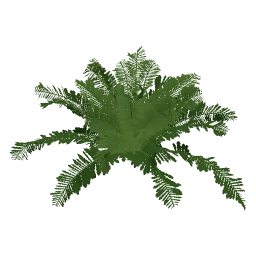
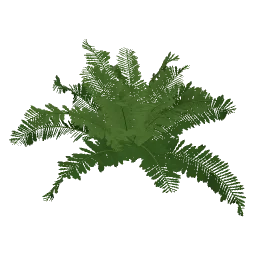
feat(templates): the fern's fronds grow from a spiral
The fronds no longer branch off a 5.7 cm crown stem that only anchored
them. `spiral` gives their points at the golden angle over the same
height and `branch_from_points` grows them, with the thickness the stub
gave them in meters. Gravity and the shade of the pinnae read the age of
a frond as its place among the fronds instead of its place on the crown.
The stub's tube, about 1 900 faces, is gone.

Refs #490

Changed region(s): [[0.0312, 0.1562, 0.9688, 0.8438], [0.4688, 0.4375, 0.5312, 0.5]]

diff --git a/packages/runtime/templates/index.ts b/packages/runtime/templates/index.ts
@@ -36,7 +36,7 @@ type About = { species?: string; notes: string };
 const ABOUT: Record<string, About> = {
   fern: {
     species: 'Nephrolepis exaltata (Boston fern)',
-    notes: '22 fronds from a short crown at the golden angle, arched by gravity, each with 110 '
+    notes: '22 fronds from a spiral at the golden angle, arched by gravity, each with 110 '
       + 'pinnae in two ranks.'
   },
   agave: {

diff --git a/docs/PLANT_TEMPLATES.md b/docs/PLANT_TEMPLATES.md
@@ -171,9 +171,9 @@ Family Nephrolepidaceae.
 
 **Structure:** Many fronds rise from the crown in a fountain. The inner fronds are erect and arch over, the outer ones hang. A frond is up to 1.5 m long (40–90 cm in pot forms) and _once-pinnate_. It has a short scaly stipe (about a fifth of the frond) and then 40–70 pinnae on each side, alternating, in one flat plane. Each pinna is linear-oblong, about 2–7 cm × 0.6–1.8 cm, with a crenate (scalloped) margin and a small ear (auricle) at the upper base. The pinnae stay almost the same length along the frond and only shorten near the tip, so the frond is a long strap.
 
-**Template:** 22 fronds grow from a short crown at the golden angle, so they spread evenly around the plant. An `alpha -> curve` tilts them by age: the outer, older fronds low on the crown spread out (0.7 rad above horizontal), the young ones in the middle stand upright (1.4 rad), ±0.14 rad at random. Gravity arches them by their place on the crown, a `path_info` with parent position into a `curve`: the outer fronds hang until their tips come down to the ground (strength 0.9–1.25, one value per seed), the inner ones only arch over (a third of it), with elasticity 0.3. That makes the fountain. Each frond carries 110 pinnae from 10% to 99%, alternating sides (`rotation` about 3.14) and slightly ascending (`angle` 0.29 rad at the base of the frond to 0.47 rad at its tip). The bare first 10% is the stipe. An `alpha -> curve` on their size keeps the pinnae the same length along most of the frond, slightly shorter at its base and short at its tip, so the frond is a strap. The pinna shape is oblong, about 4 times as long as wide, with a scalloped margin. The auricle is missing because shapes are mirrored. The fronds come one after another from the outside in: the time minus a `curve` of `alpha` of up to 0.6 goes into their `growth`. A growing frond is a crozier: a `roll` after the gravity reads `path_info` grown through a `curve`, rolls up the tip and unrolls it as the frond grows.
+**Template:** 22 fronds grow from the points of a `spiral` at the golden angle, 5.4 cm from the lowest to the highest, so they spread evenly around the plant. An `alpha -> curve` tilts them by age: the outer, older fronds low on the crown spread out (0.7 rad above horizontal), the young ones in the middle stand upright (1.4 rad), ±0.14 rad at random. Gravity arches them by their place in the spiral, a `path_info` with position into a `curve`: the outer fronds hang until their tips come down to the ground (strength 0.9–1.25, one value per seed), the inner ones only arch over (a third of it), with elasticity 0.3. That makes the fountain. Each frond carries 110 pinnae from 10% to 99%, alternating sides (`rotation` about 3.14) and slightly ascending (`angle` 0.29 rad at the base of the frond to 0.47 rad at its tip). The bare first 10% is the stipe. An `alpha -> curve` on their size keeps the pinnae the same length along most of the frond, slightly shorter at its base and short at its tip, so the frond is a strap. The pinna shape is oblong, about 4 times as long as wide, with a scalloped margin. The auricle is missing because shapes are mirrored. The fronds come one after another from the outside in: the time minus a `curve` of `alpha` of up to 0.6 goes into their `growth`. A growing frond is a crozier: a `roll` after the gravity reads `path_info` grown through a `curve`, rolls up the tip and unrolls it as the frond grows.
 
-**Colours:** The crown is brown, the stipe brownish and the rachis green. The pinnae pick from two greens by the age of their frond (`path_info` parent position into the `index`): the outer, older fronds are darker, the inner ones lighter, and every pinna is lighter toward its tip. One shade per seed.
+**Colours:** The stipe is brownish and the rachis green. The pinnae pick from two greens by the age of their frond (`path_info` position into the `index`): the outer, older fronds are darker, the inner ones lighter, and every pinna is lighter toward its tip. One shade per seed.
 
 ## Ornamental Grass: _Cenchrus purpurascens_ (fountain grass, syn. _Pennisetum alopecuroides_)
 
